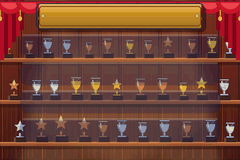
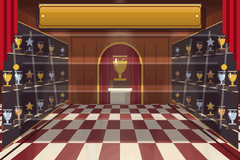
FINAL RESULTS: the trophy room in perspective, rendered style
A marble checkerboard floor receding to an arched alcove with the
champion's cup on a pedestal under a spotlight, glass cabinets of
trophies (ours) along both walls shrinking with distance, ceiling lights,
curtains at the front, the gold title plaque.

Claude-Session: https://claude.ai/code/session_01S1j7pJRr5op4weh9nnuVXR

diff --git a/updates/art/cup_results/paint.py b/updates/art/cup_results/paint.py
@@ -419,12 +419,152 @@ def plaque(img):
     paste(img, p)
 
 
+VP = (120, 74)                  # the room's vanishing point
+BACK = (72, 38, 168, 104)       # the back wall (x0, y0, x1, y1)
+
+
+def room(img):
+    """The room in one-point perspective: ceiling, side walls, back wall, marble floor."""
+    d = ImageDraw.Draw(img)
+    bx0, by0, bx1, by1 = (v * S for v in BACK)
+    # ceiling: dark wood, lighter towards the back
+    vgrad(d, (0, 0, W, by0), (56, 26, 22), (120, 66, 44))
+    d.polygon([(0, by0), (bx0, by0), (0, 0)], fill=(70, 34, 26, 255))
+    # side walls: warm panelling, darker near the viewer
+    for side in (-1, 1):
+        xa, xb = (0, bx0) if side < 0 else (W, bx1)
+        for k in range(60):
+            t = k / 60
+            x = xa + (xb - xa) * t
+            yt = 0 + (by0 - 0) * t
+            yb = H + (by1 - H) * t
+            col = lerp((70, 30, 24), (150, 80, 50), t)
+            d.line([(x, yt), (x, yb)], fill=col + (255,), width=int(abs(xb - xa) / 60) + 2)
+    # back wall
+    vgrad(d, (bx0, by0, bx1, by1), (170, 96, 60), (120, 62, 40))
+    for k in range(1, 8):                                     # its panels
+        x = bx0 + (bx1 - bx0) * k / 8
+        d.line([(x, by0 + 4 * S), (x, by1 - 2 * S)], fill=(100, 52, 34, 255), width=max(1, S // 2))
+    # the floor: a marble checkerboard in perspective, shinier at the back
+    fl = np.zeros((H, W, 4), np.uint8)
+    vy = VP[1] * S
+    for y in range(int(by1), H):
+        z = 1.0 / ((y - vy) / (H - vy))                       # depth: 1 at the front edge
+        for x in range(0, W, 2):
+            xw = (x - VP[0] * S) * z / (S * 22)
+            zw = z * 3.2
+            chk = (int(math.floor(xw)) + int(math.floor(zw))) & 1
+            base = (236, 226, 208) if chk else (120, 34, 40)
+            shine = max(0.0, 1 - abs(x - VP[0] * S) / (W * 0.45)) * (1 / z) * 0.35
+            c = lerp(base, (255, 250, 236), min(1, shine))
+            fl[y, x:x + 2, :3] = lerp(c, (60, 30, 30), min(0.45, (z - 1) * 0.08))
+            fl[y, x:x + 2, 3] = 255
+    paste(img, Image.fromarray(fl, "RGBA"))
+    d = ImageDraw.Draw(img)
+    for side in (-1, 1):                                      # skirting along the walls
+        xa, xb = (0, bx0) if side < 0 else (W, bx1)
+        d.line([(xa, H), (xb, by1)], fill=(60, 26, 20, 255), width=2 * S)
+
+
+def alcove(img):
+    """An arched alcove in the back wall: red velvet, a pedestal, the champion's cup."""
+    a = layer()
+    d = ImageDraw.Draw(a)
+    cx = VP[0] * S
+    x0, x1, y0, y1 = cx - 22 * S, cx + 22 * S, (BACK[1] + 4) * S, BACK[3] * S
+    d.rectangle([x0, y0 + 20 * S, x1, y1], fill=(110, 14, 30, 255))
+    d.pieslice([x0, y0, x1, y0 + 44 * S], 180, 360, fill=(110, 14, 30, 255))
+    for k in range(7):                                        # velvet folds
+        x = x0 + (k + 0.5) * (x1 - x0) / 7
+        d.line([(x, y0 + 12 * S), (x, y1)], fill=(150, 30, 46, 255), width=S)
+    d.arc([x0, y0, x1, y0 + 44 * S], 180, 360, fill=(230, 180, 70, 255), width=2 * S)
+    d.line([(x0, y0 + 22 * S), (x0, y1)], fill=(230, 180, 70, 255), width=2 * S)
+    d.line([(x1, y0 + 22 * S), (x1, y1)], fill=(230, 180, 70, 255), width=2 * S)
+    # pedestal
+    d.rectangle([cx - 10 * S, y1 - 14 * S, cx + 10 * S, y1], fill=(232, 228, 220, 255), outline=OUT)
+    d.rectangle([cx - 12 * S, y1 - 16 * S, cx + 12 * S, y1 - 13 * S], fill=(250, 248, 240, 255), outline=OUT)
+    d.rectangle([cx + 5 * S, y1 - 13 * S, cx + 10 * S, y1], fill=(190, 186, 180, 255))
+    trophy(d, cx, y1 - 16 * S, 34 * S, GOLD, "cup")
+    paste(img, a)
+    li = layer()
+    dl = ImageDraw.Draw(li)
+    dl.polygon([(cx - 6 * S, 0), (cx + 6 * S, 0), (cx + 30 * S, y1), (cx - 30 * S, y1)], fill=(255, 236, 180, 50))
+    paste(img, li, 3 * S)
+
+
+def cabinets(img):
+    """Glass display cabinets along both side walls, trophies shrinking with distance."""
+    c = layer()
+    d = ImageDraw.Draw(c)
+    bx0, by0, bx1, by1 = BACK
+    metals = [GOLD, SILVER, BRONZE]
+    for side in (-1, 1):
+        x_near, x_far = (2, bx0 - 4) if side < 0 else (238, bx1 + 4)
+        def at(t, y_front, y_back):                           # a point on the wall at depth t
+            x = x_near + (x_far - x_near) * t
+            y = y_front + (y_back - y_front) * t
+            return x * S, y * S
+        # cabinet body
+        d.polygon([at(0, 14, by0 + 6), at(1, by0 + 6, by0 + 6)[0:1] + (at(1, 14, by0 + 6)[1],),
+                   at(1, 150, by1 - 4), at(0, 150, by1 - 4)], fill=(40, 20, 22, 255))
+        # shelves and trophies, back to front so the near ones overlap
+        for ys_front, ys_back in ((52, 58), (92, 80), (132, 100)):
+            p0, p1 = at(0, ys_front, ys_back), at(1, ys_front, ys_back)
+            d.line([p0, p1], fill=(220, 190, 140, 255), width=max(1, int(1.5 * S)))
+            for k in range(6, 0, -1):
+                t = (k - 0.5) / 6
+                x, y = at(t, ys_front, ys_back)
+                scale = 1 - 0.6 * t
+                trophy(d, x, y, 22 * S * scale, metals[(k + int(ys_front)) % 3], "star" if k % 3 == 0 else "cup")
+        # glass: a pane tint and glints
+        pane = layer()
+        dp = ImageDraw.Draw(pane)
+        dp.polygon([at(0, 14, by0 + 6), at(1, by0 + 6, by0 + 6), at(1, 150, by1 - 4), at(0, 150, by1 - 4)],
+                   fill=(170, 210, 240, 34))
+        for k in range(3):
+            t = 0.15 + k * 0.28
+            xa, ya = at(t, 20, by0 + 8)
+            xb, yb = at(t + 0.12, 140, by1 - 6)
+            dp.line([(xa, ya), (xb, yb)], fill=(255, 255, 255, 90), width=2 * S)
+        c.alpha_composite(pane)
+        # the cabinet's frame
+        d = ImageDraw.Draw(c)
+        d.line([at(0, 14, by0 + 6), at(1, by0 + 6, by0 + 6)], fill=(200, 150, 80, 255), width=S)
+        d.line([at(0, 150, by1 - 4), at(1, by1 - 4, by1 - 4)], fill=(200, 150, 80, 255), width=S)
+    paste(img, c)
+
+
+def ceiling_lights(img):
+    l = layer()
+    d = ImageDraw.Draw(l)
+    for x, y, r in ((60, 10, 7), (120, 18, 6), (180, 10, 7)):
+        d.ellipse([(x - r) * S, (y - r * 0.4) * S, (x + r) * S, (y + r * 0.4) * S], fill=(255, 250, 220, 255))
+        d.polygon([((x - r) * S, y * S), ((x + r) * S, y * S), ((x + r * 4) * S, 160 * S), ((x - r * 4) * S, 160 * S)],
+                  fill=(255, 230, 170, 28))
+    paste(img, l, 2 * S)
+
+
+def side_curtains(img):
+    c = layer()
+    d = ImageDraw.Draw(c)
+    for side in (-1, 1):
+        x0 = 0 if side < 0 else W
+        for k in range(5):
+            xx = x0 - side * k * 3.5 * S
+            col = lerp((180, 22, 40), (120, 10, 26), k % 2)
+            d.rectangle([min(xx, xx - side * 3.5 * S), 0, max(xx, xx - side * 3.5 * S), (70 - k * 9) * S], fill=col + (255,))
+        d.ellipse([(x0 - side * 16 * S) - 3 * S, 64 * S, (x0 - side * 16 * S) + 3 * S, 70 * S], fill=(240, 196, 70, 255), outline=OUT)
+    paste(img, c)
+
+
 def paint_final():
     img = Image.new("RGBA", (W, H), (0, 0, 0, 255))
-    wall(img)
-    shelves(img)
-    curtains(img)
-    plates(img)
+    room(img)
+    alcove(img)
+    cabinets(img)
+    ceiling_lights(img)
+    side_curtains(img)
+    plates(img, (20, 8, 16, 95))
     plaque(img)
     return finish(img)
 
